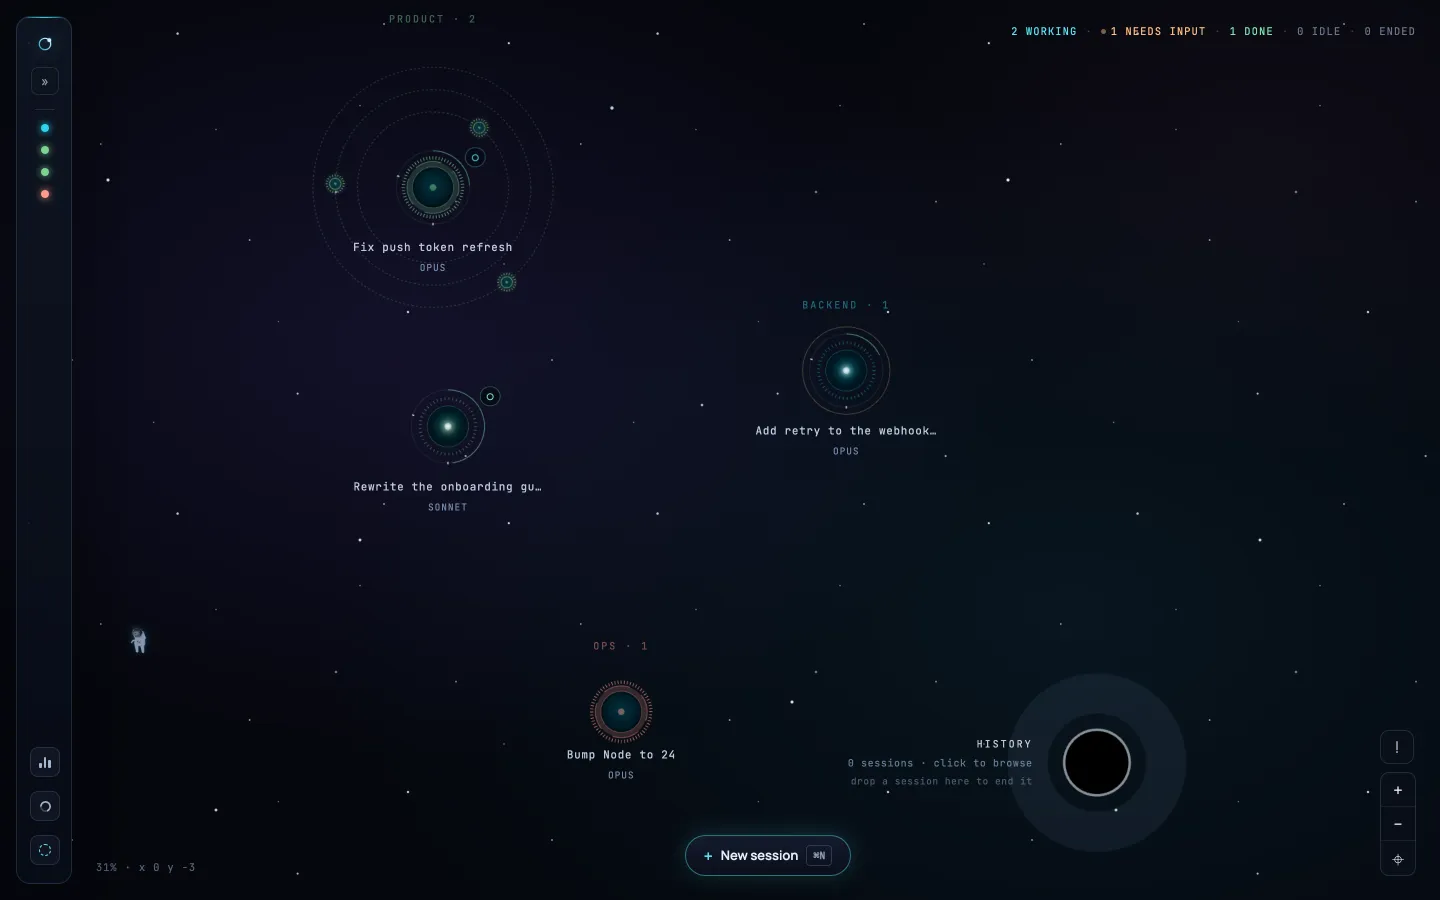
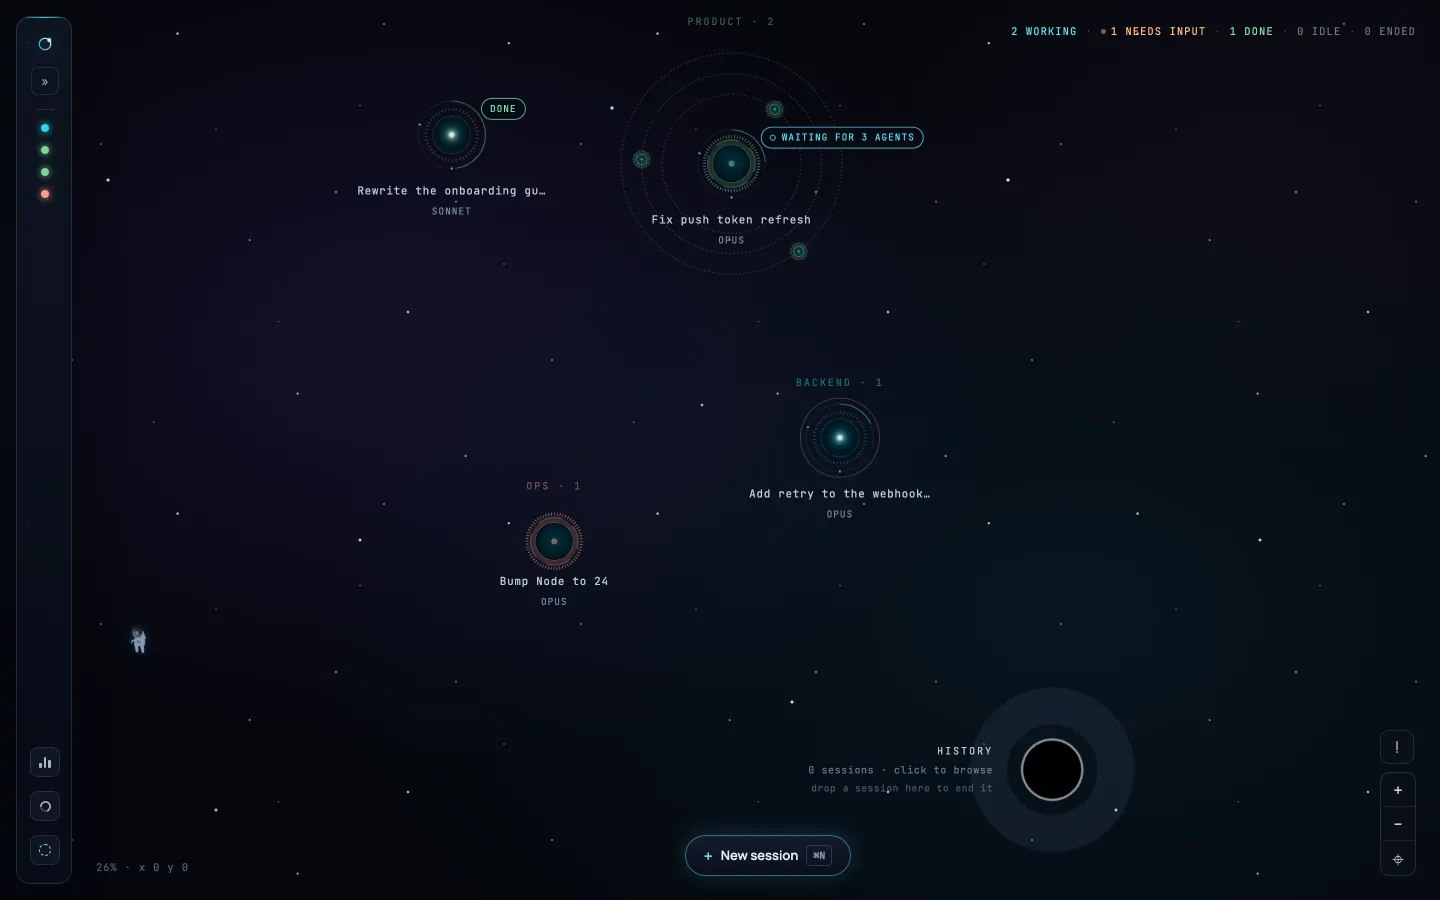
Session demo at a readable scale; map demo shows state pills

diff --git a/site/demo/fake/fixtures.ts b/site/demo/fake/fixtures.ts
@@ -55,6 +55,9 @@ export const TAGS: Tag[] = [
 export const SETTINGS: Record<string, string> = {
   map_theme: 'planets',
   sidebar_collapsed: 'true',
+  // Pills rather than the default dots: the visitor has not learned what a
+  // dot's colour means yet, and the landing's legend names the pills' words.
+  map_state_pills: 'label',
 }
 
 interface SessionSpec {

diff --git a/site/src/demos.ts b/site/src/demos.ts
@@ -21,7 +21,7 @@ interface Viewport {
  */
 export const DEMO_VIEWPORTS: Record<DemoName, Viewport> = {
   map: { width: 1440, height: 900, aspect: '16 / 10' },
-  session: { width: 1280, height: 800, aspect: '16 / 10' },
+  session: { width: 960, height: 600, aspect: '16 / 10' },
   phone: { width: 390, height: 844, aspect: '9 / 19.5' },
 }
 
